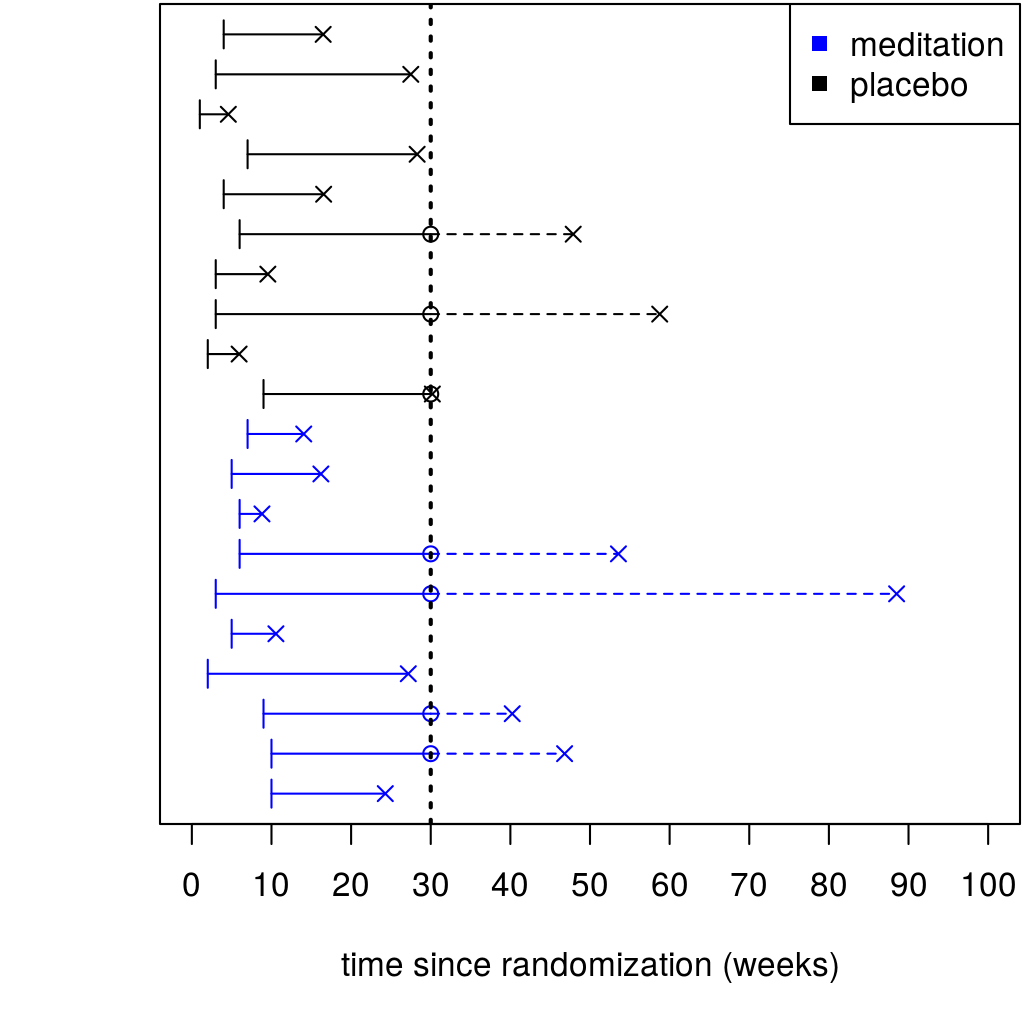
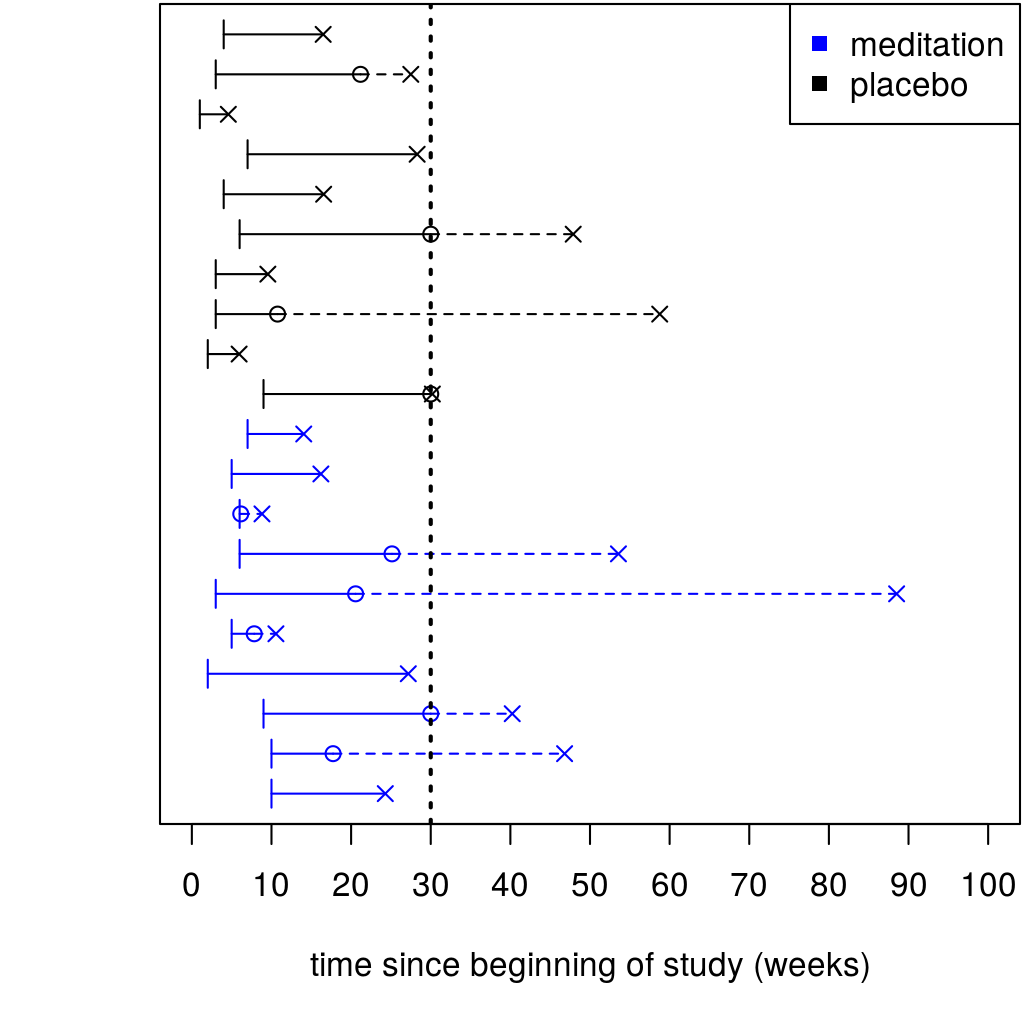
update meditation example

diff --git a/lecture/chapter_3/chap3.tex b/lecture/chapter_3/chap3.tex
@@ -98,9 +98,9 @@ To address this question, we: \vspace{-0.3cm}
 Sample of the observed times until first severe panic attack (in weeks):
 \hspace*{-1cm}\begin{tabular}{|c|c|c|c|c|c|c|c|c|c|}
 \hline
-\textcolor{blue}{meditation group} & 14.29 & 36.81 & 31.23 & 25.18 & 5.56 & 85.5 & 47.57 & 2.81  \\
+\textcolor{blue}{meditation group} & 17.78 & 13.8 & 10.69 & 4.61 & 7.8 & 26.32 & 6.48 & 12.51  \\
 \hline
-control group & 21.2 & 3.94 & 55.75 & 6.54 & 41.89 & 12.55 & 21.29 & 3.58 \\
+control group & 12.45 & 18.42 & 15.95 & 8.18 & 21.74 & 6.47 & 11.01 & 22.44 \\
 \hline
 \end{tabular}
 }
@@ -151,9 +151,9 @@ These all lead to \textbf{right-censored} data, where rather than knowing the va
 The data can be represented as:
 \hspace*{-1cm}\begin{tabular}{|c|c|c|c|c|c|c|c|c|c|}
 \hline
-\textcolor{blue}{meditation group} & 14.29  & \textcolor{red}{12.89+} & 21.00  & 25.18  &  \textcolor{red}{4.72+} & \textcolor{red}{27.00+} & \textcolor{red}{24.00+} &  \textcolor{red}{0.24+}  \\
+\textcolor{blue}{meditation group} & 14.29  & \textcolor{red}{7.74+} & \textcolor{red}{21.00+} & 25.18  &  \textcolor{red}{2.83+} & \textcolor{red}{17.57+} & \textcolor{red}{19.13+} &  \textcolor{red}{0.14+}  \\
 \hline
-control group & 21.00  &  3.94  & \textcolor{red}{12.94+} &  6.54  & 24.00  & 12.55  & 21.29  &  3.58 \\
+control group & \textcolor{red}{21.00+} &  \textcolor{red}{3.94+} &  \textcolor{red}{7.77+} &  6.54  & \textcolor{red}{24.00+} & 12.55  & 21.29 &  3.58 \\
 \hline
 \end{tabular}
 }
@@ -198,9 +198,9 @@ Close or put away your notes and laptops. Then answer the following questions, a
 
 \begin{frame}
 \frametitle{Characteristics of survival data}
-Comparison of the sampling distribution of times in participants who become censored or uncensored, and the overall target population:
+Sampling distribution of times in participants who become censored or uncensored, and the overall target population:\vspace{-0.4cm}
 \begin{center}
-
+\includegraphics[height=0.8\textheight]{figs/meditation_density_versus_obs_time.png}
 \end{center}
 \end{frame}
 
@@ -249,6 +249,29 @@ In this course, we will focus on \textbf{right censoring}, where we only know th
 
 Right-censored data are the most common type of censored data found in applications!
 \end{frame}
+
+% risk set, plus movie
+\begin{frame}
+\frametitle{Characteristics of survival data}
+Key concept: the \textbf{risk set}.
+
+\textbf{Risk set at time $t$}: the collection of participants \textcolor{blue}{could have experienced} their first severe panic attack at time $t$; in other words, those who were still at risk at time $t$.
+\vspace{-0.3cm}
+\begin{align*}
+\textbf{fraction at risk at time } t = & \frac{\textbf{size of risk set at time } t}{\textbf{total sample size}}.
+\end{align*}
+
+A few observations:\vspace{-0.3cm}
+\begin{itemize}
+\item participants \textcolor{blue}{exit} the risk set either when they \textcolor{Aquamarine}{experience a severe panic attack} or when they \textcolor{red}{become right-censored}
+\item with right-censored data, all participants are in the risk set at time 0 and the risk set necessarily shrinks over time
+\item the \textcolor{blue}{size of the risk set} and the \textcolor{blue}{characteristics of its members} will be critical in survival analysis
+\end{itemize}
+\end{frame}
+
+% uninformative censoring, with examples (from Anna)
+
+% key quantities: density function, survival function, hazard function
 
 
 \begin{comment}
